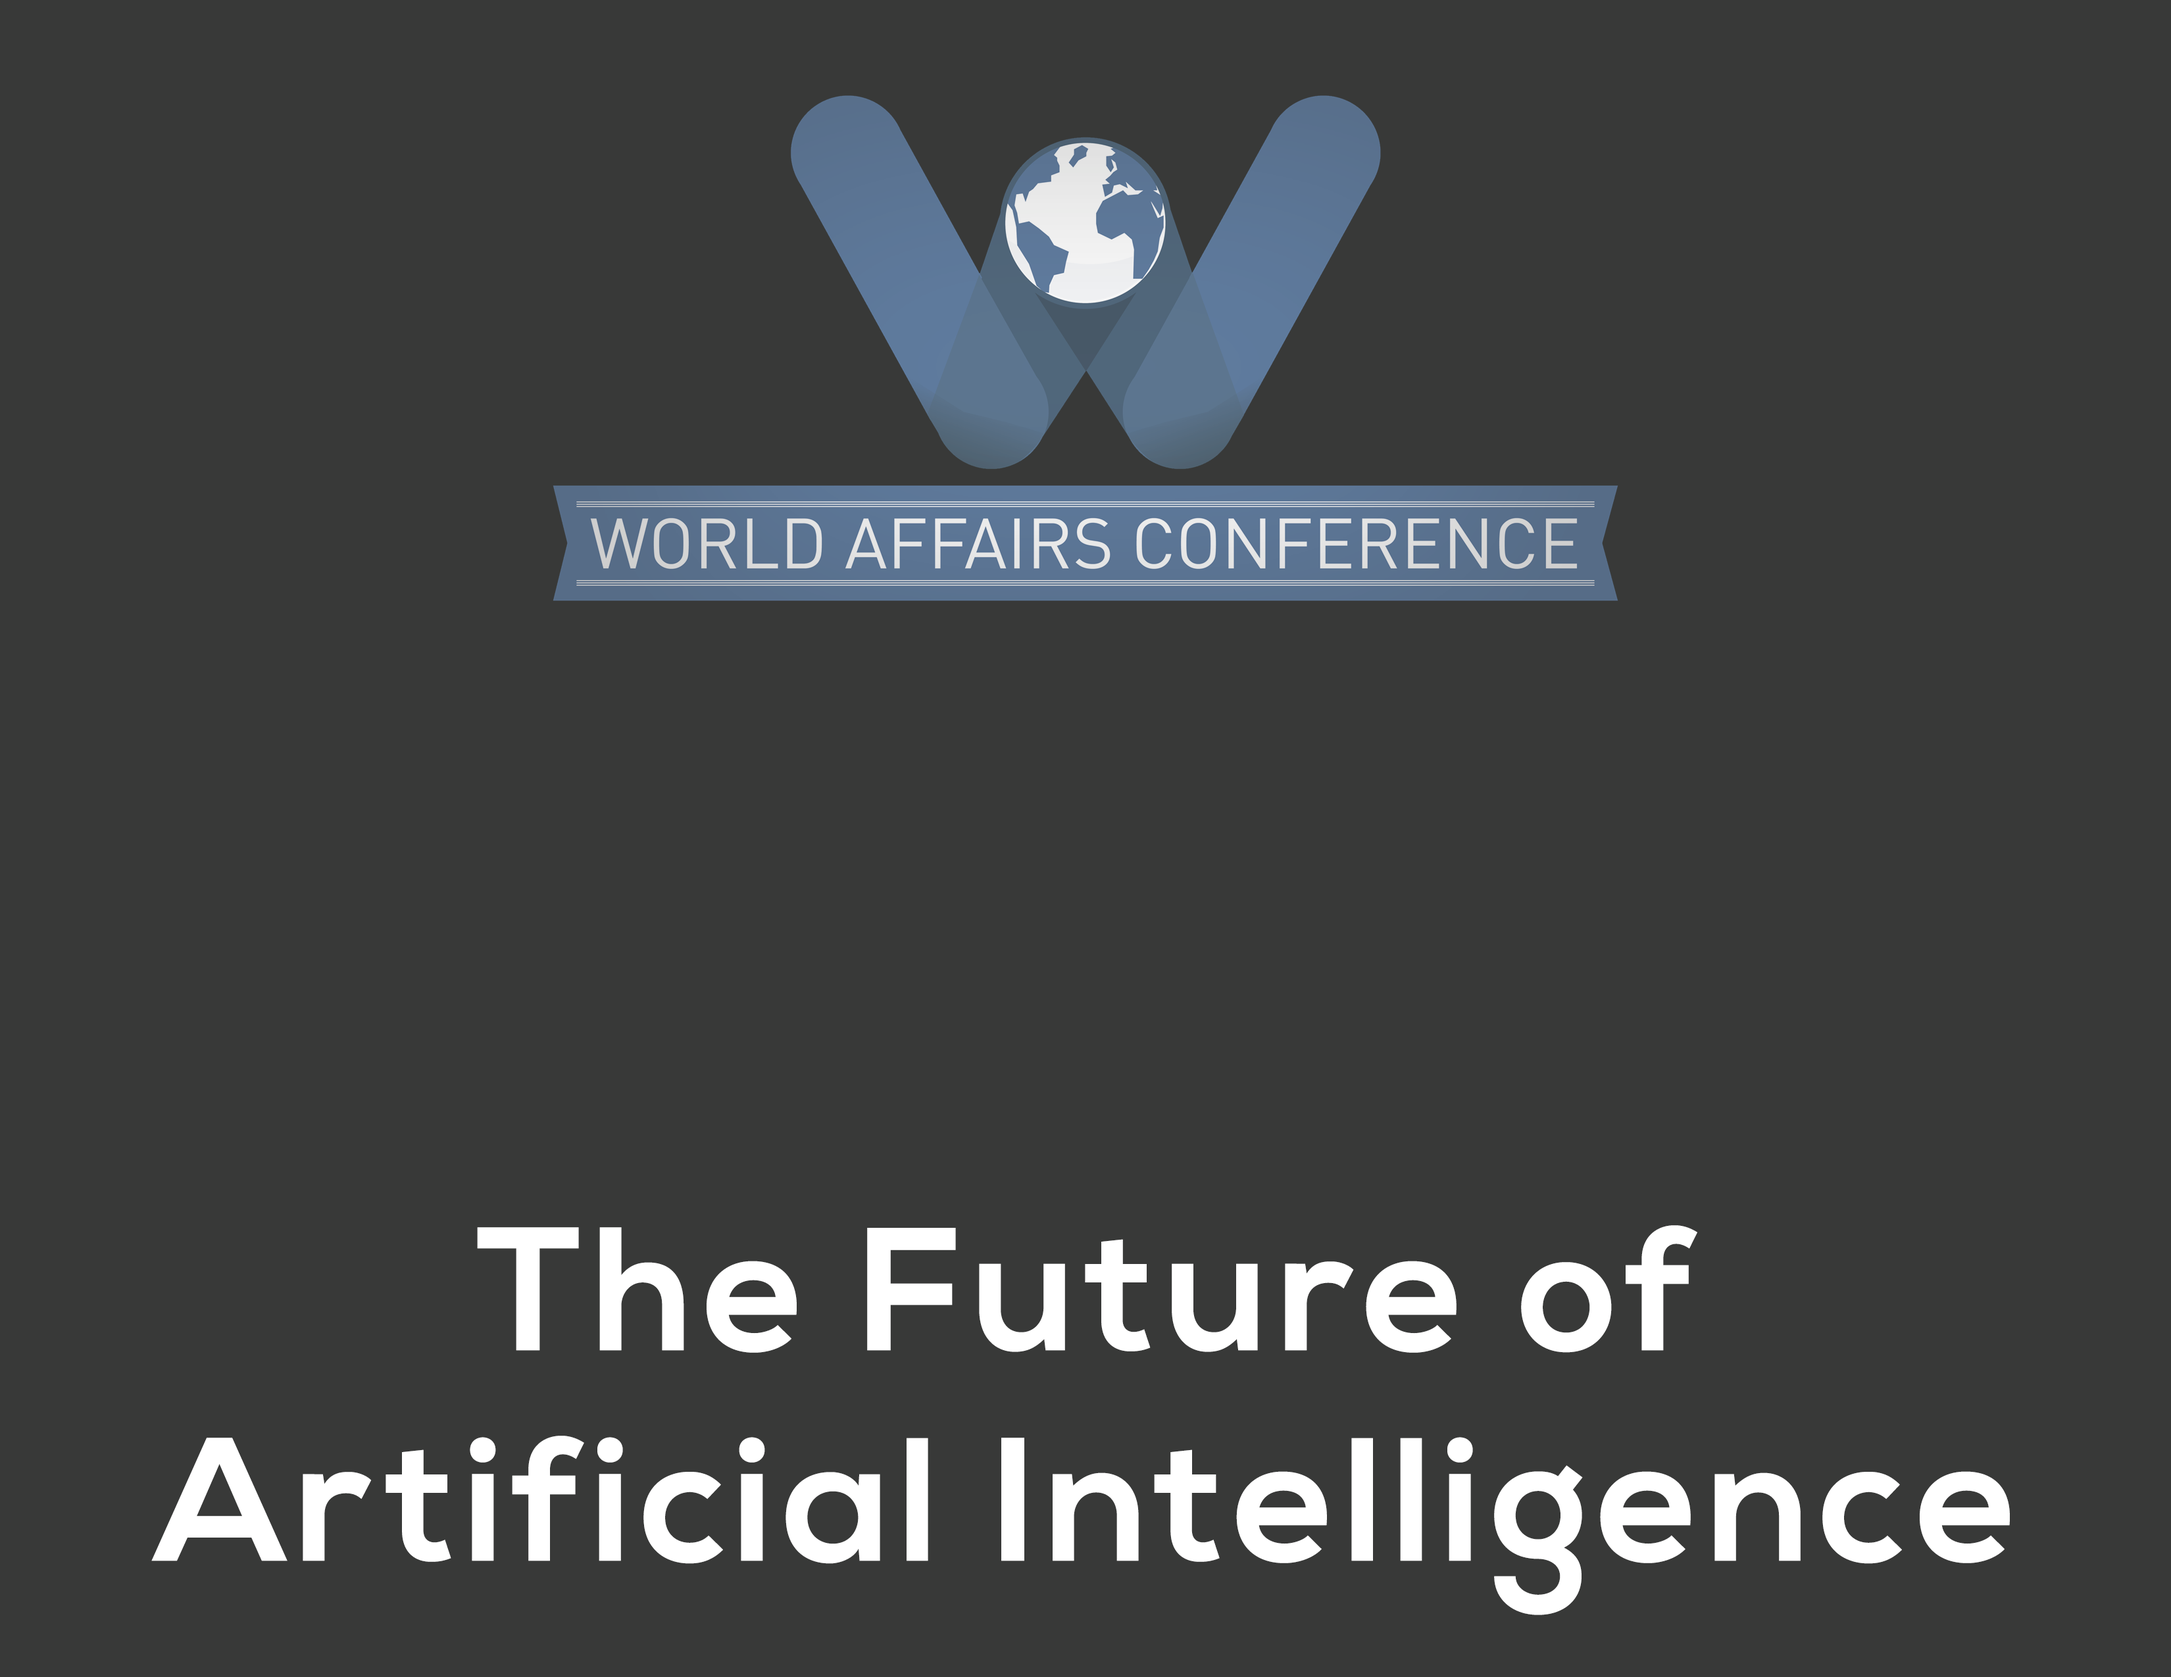
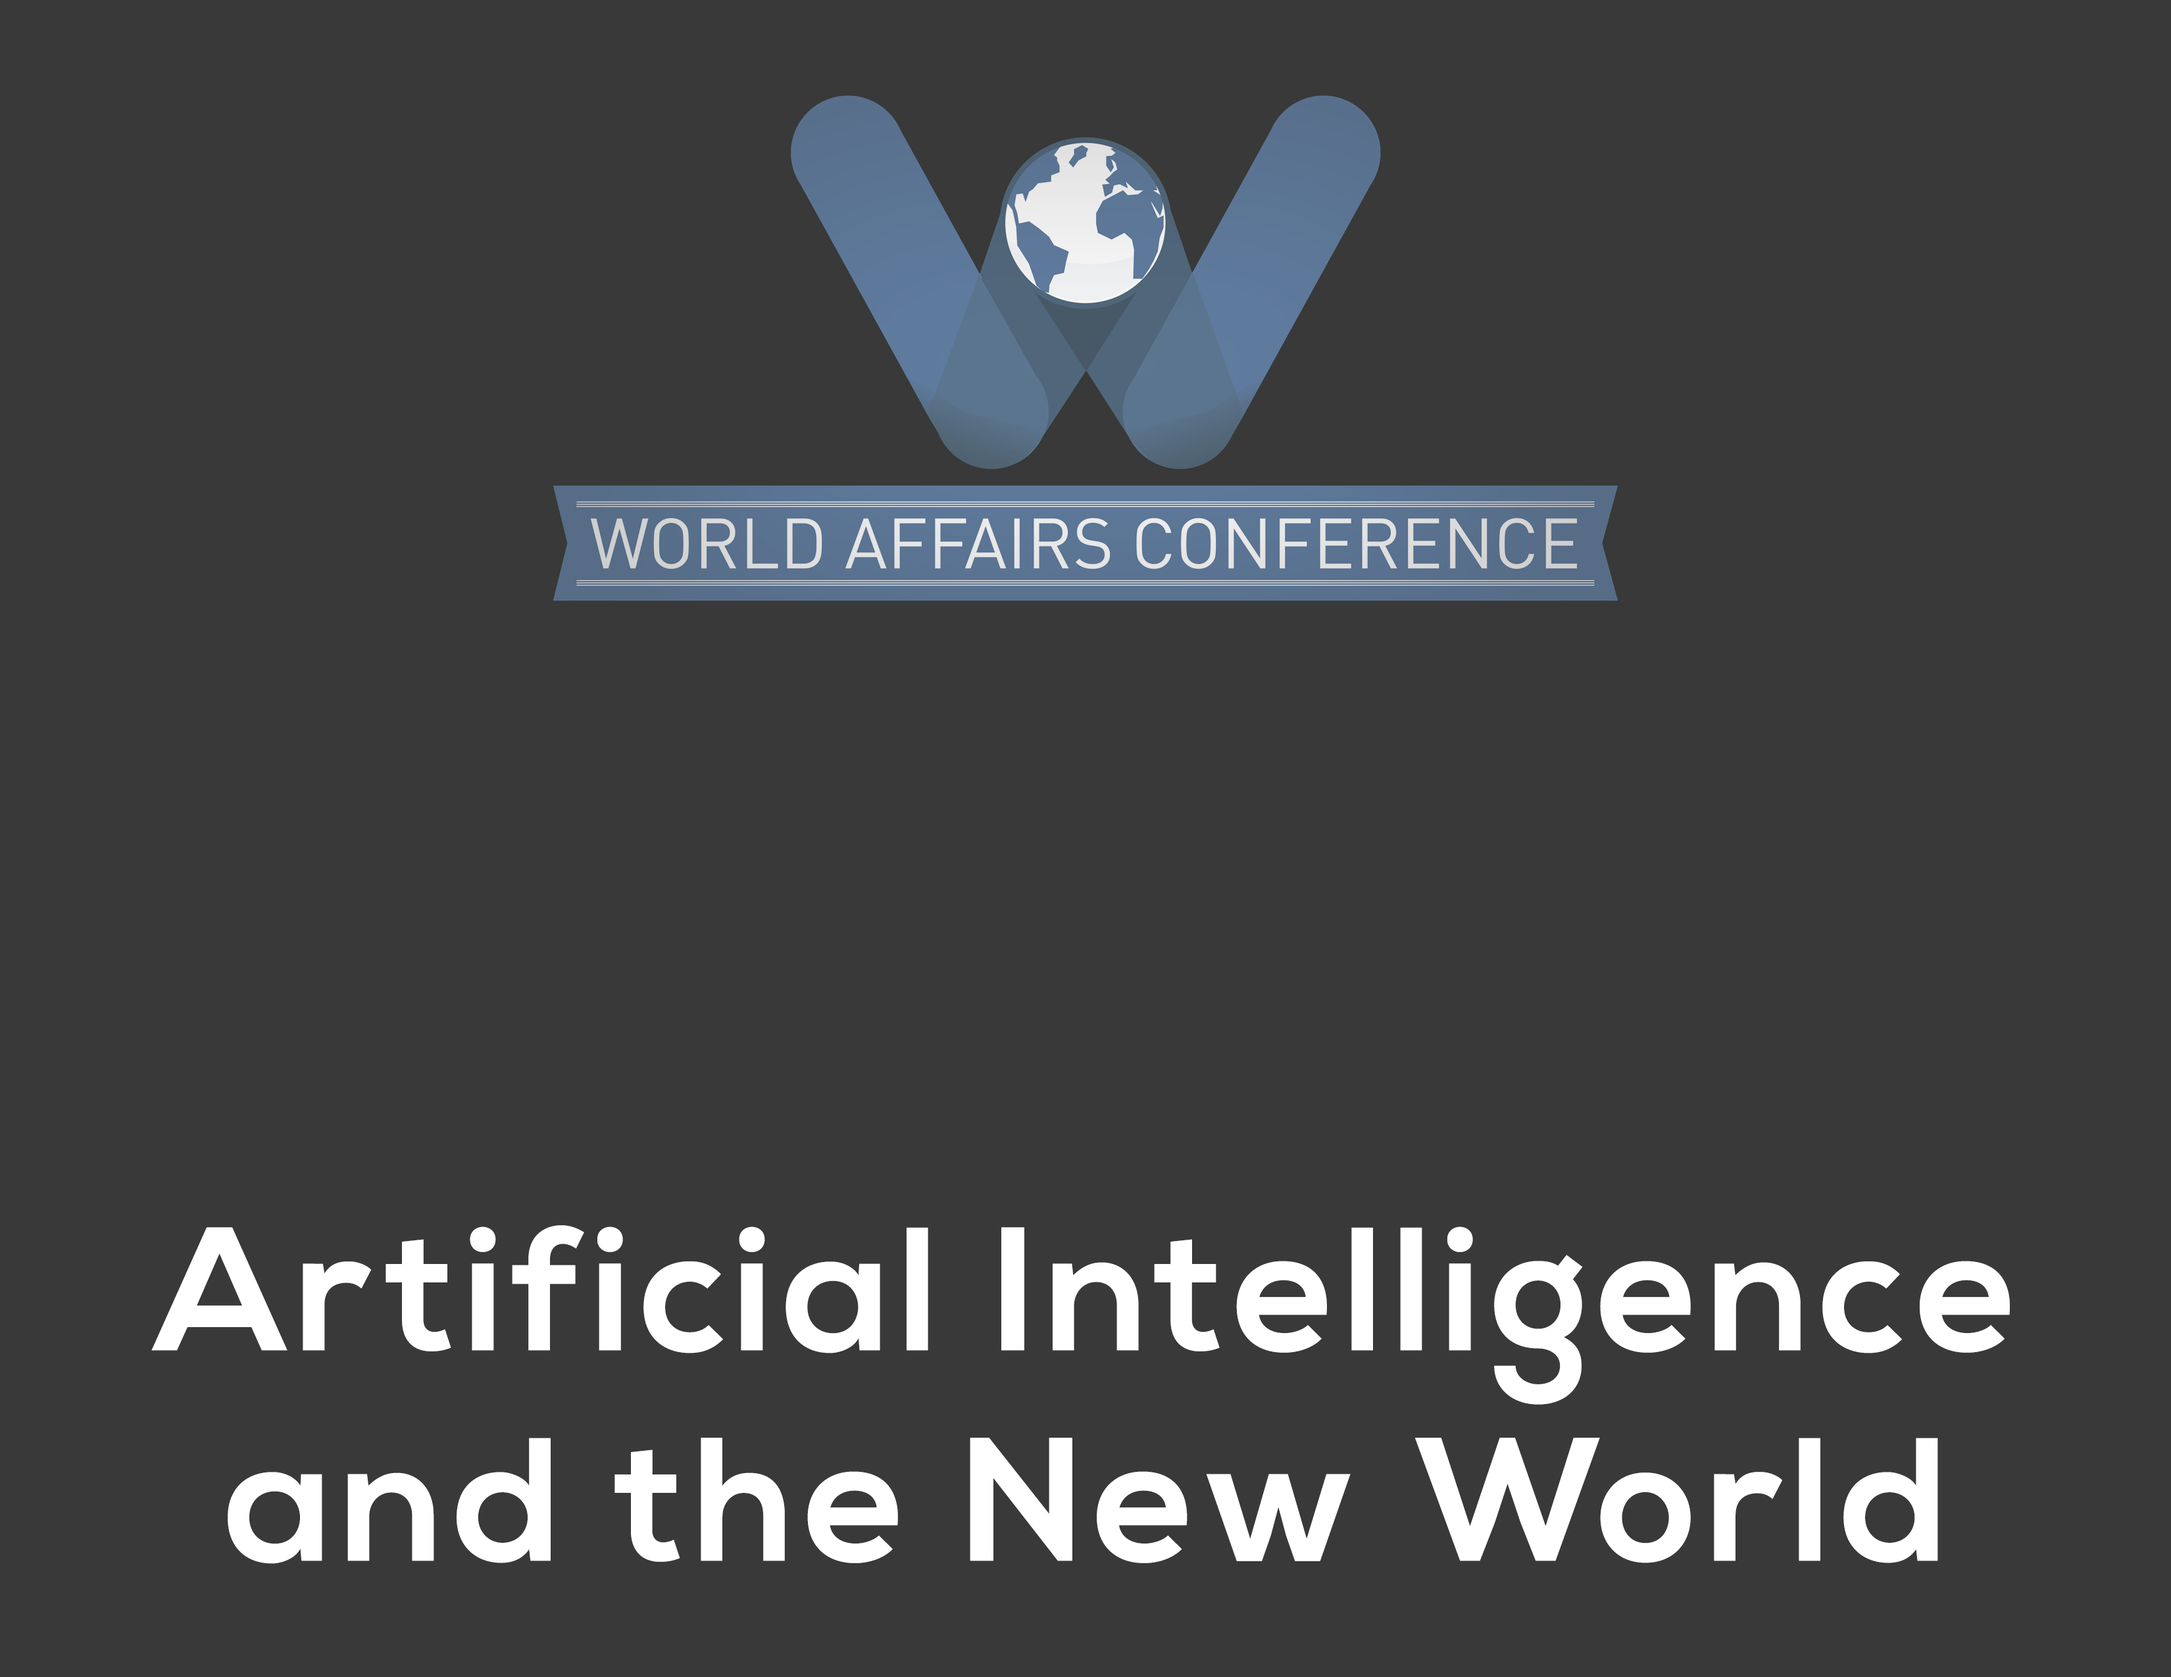
updates plenary information

Changed region(s): [[0.0624, 0.7125, 0.9364, 0.9604], [0.8115, 0.8365, 0.9364, 0.9294]]

diff --git a/_plenaries/bioinformatics.md b/_plenaries/bioinformatics.md
@@ -1,7 +1,7 @@
 ---
 layout: plenary
-title: Bioinformatics
-pic: drone.jpg
+title: The Global Implications of Bioinformatics
+pic: bioinformatics.png
 speaker1: jwzheng
 speaker2: athorogood
 shortbio: "This plenary is about bioinformatics."

diff --git a/_plenaries/developing-world.md b/_plenaries/developing-world.md
@@ -1,7 +1,7 @@
 ---
 layout: plenary
 title: Technology in the Developing World
-pic: drone.jpg
+pic: developing-world.png
 speaker1: Jane Doe
 speaker2: jwong
 shortbio: "This plenary is about Technology in the Developing World"

diff --git a/_plenaries/canada-150.md b/_plenaries/canada-150.md
@@ -1,6 +1,6 @@
 ---
 layout: plenary
-title: "Canada 150: Canada's Global Presence"
+title: "Maintaining Canada’s Global Presence"
 pic: "canada-150.png"
 speaker1: jcunningham
 speaker2: John Smith

diff --git a/_plenaries/artifical-intelligence.md b/_plenaries/artifical-intelligence.md
@@ -1,6 +1,6 @@
 ---
 layout: plenary
-title: The Future of Artificial Intelligence
+title: Artificial Intelligence and the New World
 pic: ai.png
 speaker1: Jane Doe
 speaker2: John Smith

diff --git a/_plenaries/sustainability.md b/_plenaries/sustainability.md
@@ -1,6 +1,6 @@
 ---
 layout: plenary
-title: Innovation as the Key to Sustainability
+title: Revolutionizing Sustainability
 pic: sustainability.png
 speaker1: Jane Doe
 speaker2: tszaky
